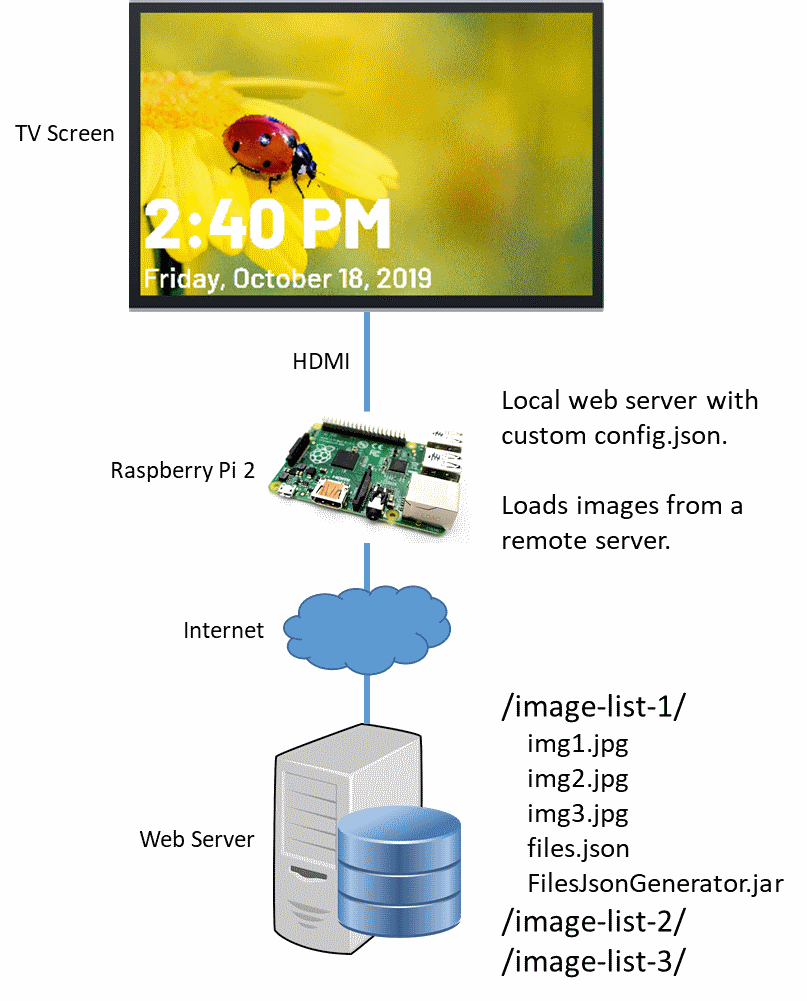
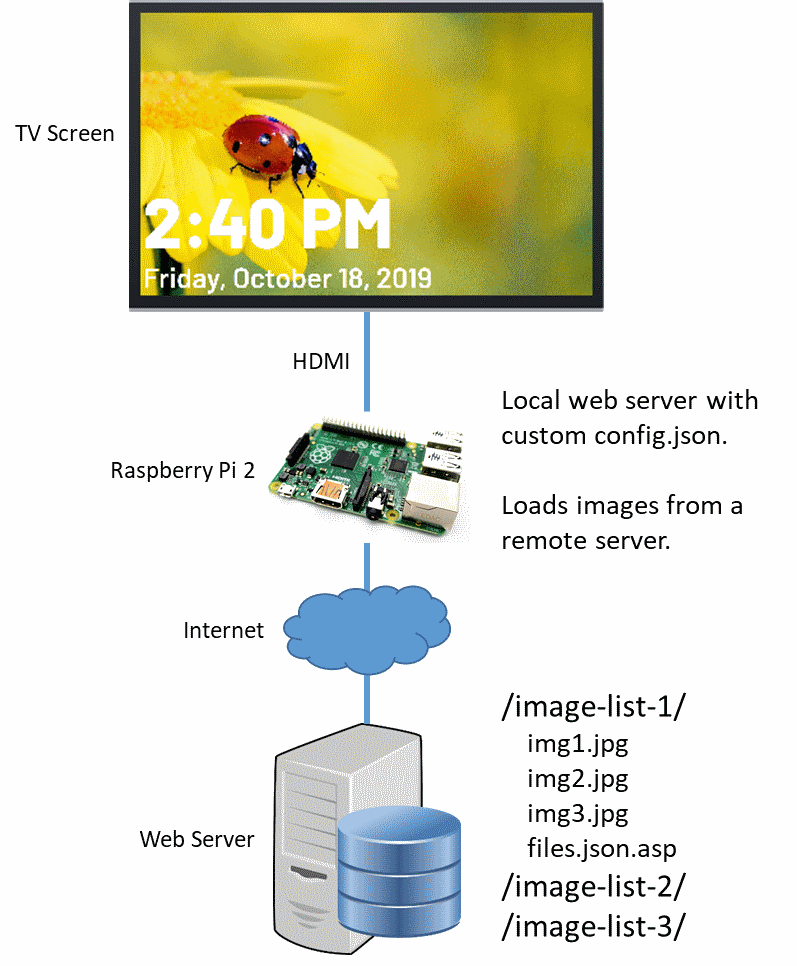
installation updates

Changed region(s): [[0.0, 0.0, 0.9636, 0.9938], [0.6324, 0.3727, 0.9636, 0.4658]]

diff --git a/realWorld/johnRhodes.md b/realWorld/johnRhodes.md
@@ -1,7 +1,5 @@
 # Real World Installation - John Rhodes Community Centre
 
-**To be installed very soon**
-
 ![John Rhodes Setup](johnRhodes.png)
 
 The John Rhodes Community Centre setup uses the following components.
@@ -20,7 +18,7 @@ The John Rhodes Community Centre setup uses the following components.
 **Web Server**
 
 - Hosts folders of images.
-- Each folder contains a `files.json` file, listing the folder contents.
+- Each folder contains a `files.json.asp` file which lists the image folder contents (*.jpg and *.png) on the fly.
 
 
 ## What Does the `config.json` Look Like?
@@ -46,14 +44,14 @@ The John Rhodes Community Centre setup uses the following components.
     },
     {
       "contentType": "imageList",
-      "backgroundImages": "http://remoteWebServer/image-list-rhodes/files.json"
+      "backgroundImages": "http://remoteWebServer/image-list-rhodes/files.json.asp"
     },
     {
       "contentType": "clock"
     },
     {
       "contentType": "imageList",
-      "backgroundImages": "http://remoteWebServer/image-list-community-centres/files.json"
+      "backgroundImages": "http://remoteWebServer/image-list-community-centres/files.json.asp"
     }
   ]
 }
@@ -65,7 +63,7 @@ Two different image lists are used.
 - `image-list-rhodes` is for content specific to the location, and shown exclusively at the John Rhodes Community Centre.
 - `image-list-community-centres` is for content that is shown at multiple community centres.
 
-Each image list relies on a `files.json` file, which list the names of the files to display.
+Each image list relies on a `files.json.asp` file, which list the names of the image files in the directory to display.
 
 
 ## How Is It Updated?
@@ -73,9 +71,5 @@ Each image list relies on a `files.json` file, which list the names of the files
 Select Community Services users have read/write access to a folder on the web server
 where they can add and remove images for their current campaigns.
 
-After making changes, the users run the `FilesJsonGenerator.jar` application
-(from the [cityssm/tv-display-filesJSON repository](https://github.com/cityssm/tv-display-filesJSON))
-to regenerate the `files.json` files.
-
-Next time the corresponding image list is due to be displayed, the updates `files.json` file is
-retrieved with the current list of images for displaying.
+When the TV display accesses the corresponding `files.json.asp` file, the current contents
+of the folder are returned in the `files.json` format.  

diff --git a/README.md b/README.md
@@ -45,13 +45,14 @@ it should be possible to use them on the OS of your choice.
 
 - Civic Centre - Clerk's Department
 - Civic Centre - Lobby
+- Transit - Dennis Street Bus Terminal
+- John Rhodes Community Centre - [Case Study](realWorld/johnRhodes.md)
 - Northern Community Centre - Seniors 55+
 - Seniors' Drop-In Centre
 
 ### In the Works
 
-- Dennis Street Bus Terminal
-- John Rhodes Community Centre - [Case Study](realWorld/johnRhodes.md)
+- Transit - Staff Room
 - Northern Community Centre
 
 

diff --git a/tipsAndTricks/troubleshooting.md b/tipsAndTricks/troubleshooting.md
@@ -25,7 +25,6 @@ and as more displays are installed.
 - Look for errors under the Network tab in the browser's developer tools.
 
 
-
 ### Some of my content doesn't display correctly or doesn't fit on my screen.
 
 When new content types are developed, they are written to work on their target displays.
